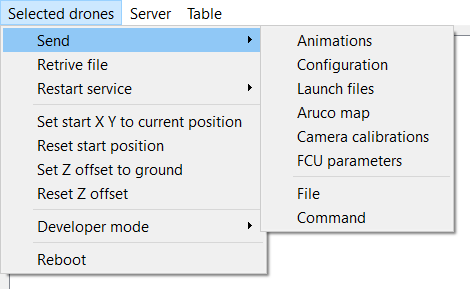
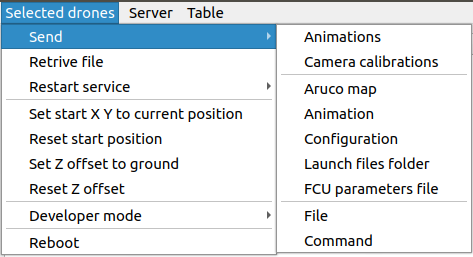
docs: Update server article

diff --git a/docs/ru/server.md b/docs/ru/server.md
@@ -46,7 +46,7 @@
 * `checks`  - состояние самодиагностики коптера. Ячейка в данном столбце проходит проверку, если её значение `OK`. В остальных случаях, если ячейка не пустая, она не проходит проверку.
   * При двойном клике на ячейку при наличии ошибок будет показано диалоговое окно с полной детализацией всех ошибок.
 * `current x y z yaw frame_id` - текущее положение коптера с указанием названия системы координат. Ячейка автоматически проходит проверку если у параметра [check_current_position](#раздел-checks) установлено значение `false`. Иначе, ячейка в данном столбце не проходит проверку, если её значение `NO_POS` или содержит `nan`. В остальных случаях, если ячейка не пустая, она проходит проверку.
-* `start x y z` - стартовое положение коптера для воспроизведения анимации. Ячейка в данном столбце не проходит проверку, если её значение `NO_POS` или разница между текущим и стартовым положением коптера больше значения [start_pos_delta_max](#раздел-checks). В остальных случаях, если ячейка не пустая, она проходит проверку.
+* `start x y z action delay` - стартовое положение коптера для воспроизведения анимации, первое действие при воспроизведении анимации и время через которое выполнится первое действие после старта анимации. Ячейка в данном столбце не проходит проверку, если её значение `NO_POS`, разница между текущим и стартовым положением коптера больше значения [start_pos_delta_max](#раздел-checks) или модуль анимации клиента выдаёт ошибку при обработке анимации и проверке того, что все точки анимации находятся над уровнем земли. В остальных случаях, если ячейка не пустая, она проходит проверку.
 * `dt` - разница между временем на сервере и клиенте в секундах, включая сетевую задержку. Ячейка в данном столбце проходит проверку, если её значение меньше значения [time_delta_max](#раздел-checks), задаваемого в настройках сервера. В остальных случаях, если ячейка не пустая, она не проходит проверку. При слишком больших значениях сигнализирует об отсутствии синхронизации времени между коптером и клиентом.
 
 ### Меню
@@ -59,27 +59,37 @@
 
 * Подраздел `Send`
 
-  * `Animations` - отправка файлов анимации, экспортированных аддоном к Blender, на выбранные коптеры. В диалоговом окне необходимо выбрать *папку*, содержащую файлы анимации. Каждый файл анимации будет отправлен на клиент с именем, соответствующим имени файла без расширения.
+  `<clever-show>` - расположение ПО `clever-show` на клиенте.
+
+  `<clover_dir>` - расположение ROS пакета `clover` на клиенте.
+
+  * `Animations` - отправка файлов анимации, экспортированных аддоном к Blender, на выбранные коптеры. В диалоговом окне необходимо выбрать *папку*, содержащую файлы анимации. Каждый файл анимации будет отправлен на клиент с именем, соответствующим имени файла без расширения. На клиенте файл будет сохранён как `<clever-show>/drone/animation.csv`.
+
+  * `Camera calibrations` - отправка yaml-файлов калибровки камеры для сервиса `clover`.  В диалоговом окне необходимо выбрать *папку*, содержащую файлы конфигурации с расширением `.yaml`. Каждый файл калибровки будет отправлен на клиент с именем (copter ID), соответствующим имени файла без расширения. На клиенте файл будет сохранён как `<clover_dir>/camera_info/calibration.yaml`. **Внимание!** Существующий файл калибровки на коптере будет перезаписан.
+
+  ---
+
+  * `Aruco map` - отправка *единого* файла карты aruco маркеров на все выбранные клиенты. В диалоговом окне необходимо выбрать *один* файл карты в установленном формате. Файл на клиенте будет перезаписан и сохранён как `<clover_dir>/../aruco_pose/map/animation_map.txt`. После получения и записи файла клиент автоматически перезапустит сервис `clover`. Для возобновления работоспособности полётных функций и получения некоторых значений телеметрии *необходимо подождать* некоторое время до полного запуска сервиса.
+
+  * `Animation` - отправка *единого* файла анимации на все выбранные клиенты. В диалоговом окне необходимо выбрать *один* файл анимации. На клиенте файл будет сохранён как `<clever-show>/drone/animation.csv`. Полезная функция для быстрого тестирования нескольких дронов, если использовать в комбинации с `Set start X Y to current position`.
 
   * `Configuration` - отправка *единого* файла конфигурации клиента на все выбранные клиенты. В диалоговом окне необходимо выбрать *один* файл конфигурации в установленном формате. Файл конфигурации может быть неполным, в таком случае будут перезаписаны лишь указанные в файле параметры. **Внимание!** Не рекомендуется использовать данное действие для массовой перезаписи `copter ID`, кроме значения `/hostname`. **Внимание!** НЕ отправляйте на клиенты файл конфигурации сервера.
 
-  * `Launch files` - отправка launch-файлов конфигурации сервиса `clever`. В диалоговом окне необходимо выбрать *папку*, содержащую файлы конфигурации с сширением `.launch`. Все файлы с таким расширением будут отправлены *на каждый* из клиентов. **Внимание!** Существующие файлы конфигурации на коптерах будут перезаписаны, однако файлы, не отправленные сервером, не будут удалены или модифицированы.
+  * `Launch files folder` - отправка launch-файлов конфигурации сервиса `clover`. В диалоговом окне необходимо выбрать *папку*, содержащую файлы конфигурации с расширением `.launch` и `.yaml`. Все файлы с таким расширением будут отправлены *на каждый* из клиентов в директорию `<clover_dir>/launch`. **Внимание!** Существующие файлы конфигурации на коптерах будут перезаписаны, однако файлы, не отправленные сервером, не будут удалены или модифицированы.
 
-  * `Aruco map` - отправка *единого* файла карты aruco маркеров на все выбранные клиенты. В диалоговом окне необходимо выбрать *один* файл карты в установленном формате. Файл на клиенте будет перезаписан. После получения и записи файла клиент автоматически перезапустит сервис `clever`. Для возобновления работоспособности полётных функций и получения некоторых значений телеметрии *необходимо подождать* некоторое время до полного запуска сервиса.
+  * `FCU parameters file` - отправка и запись *единого* файла конфигураций полётного контроллера (FCU) на все выбранные клиенты. В диалоговом окне необходимо выбрать *один* файл параметров в установленном формате. Параметры на полётном контроллере  будут перезаписаны.
 
-  * `Camera calibrations` - отправка yaml-файлов калибровки камеры для сервиса `clever`.  В диалоговом окне необходимо выбрать *папку*, содержащую файлы конфигурации с расширением `.yaml`. Каждый файл калибровки будет отправлен на клиент с именем (copter ID), соответствующим имени файла без расширения. **Внимание!** Существующий файл калибровки на коптере будет перезаписан.
-
-  * `FCU parameters` - отправка и запись *единого* файла конфигураций полётного контроллера (FCU) на все выбранные клиенты. В диалоговом окне необходимо выбрать *один* файл параметров в установленном формате. Параметры на полётном контроллере  будут перезаписаны.
+  ---
 
   * `File` - отправка *одного* любого файла на все выбранные клиенты. В диалоговом окне необходимо выбрать *один* файл. Далее, необходимо указать путь, по которому данный файл будет записан на клиенты (не включая имя файла).
 
   * `Command` - отправка и выполнение любой команды терминала на все выбранные клиенты. В диалоговом окне необходимо ввести требуемую команду. Команды *могут* использовать `sudo`-права.
 
-  ------
+---
 
 * `Retrive file` - позволяет скачать любой файл с клиентов в выбранную директорию в файловой системе сервера. Если при скачивании был выбран более чем один клиент, то к имени файла от каждого клиента будет добавлен его ID. В диалоговом окне сначала введите путь к требуемому файлу на клиенте.  Далее, в диалоговом окне необходимо указать путь, по которому данный файл будет записан на сервер.
 
-  ------
+---
 
 * Подраздел `Restart Service`
 
@@ -89,7 +99,7 @@
   * `clever` - перезапускает сервис  `clever` на выбранных клиентах. Для возобновления работоспособности полётных функций и получения некоторых значений телеметрии *необходимо подождать* некоторое время до полного запуска сервиса.
   * `clever-show` - перезапускает сервис шоу коптеров `clever-show` на выбранных клиентах. Во время перезапуска клиенты будут отключены.
 
-  ------
+---
 
 * `Set start X Y to current position` - устанавливает точку старта анимации у выбранных клиентов в значения текущей позиции по X Y.
 
@@ -97,9 +107,15 @@
 
 * `Set Z offfset to ground` - устанавливает собственный отступ по Z каждого из выбранных клиентов в значение, равное текущему положению по координате Z. Можно применять для выравнимания общей высоты полёта коптеров.
 * `Reset Z offfset` - устанавливает собственный отступ по Z каждого из выбранных клиентов в значение `0`.
+
+---
+
 * `Developer mode`: **Внимание!** Используйте данные действия с большой осторожностью.
-  
+
   * `Update clever-show git` - обновляет папку репозитория  `clever-show` на выбранных клиентах. Файлы конфигурации клиента *не будут* перезаписаны. **Внимание!**  Для того, чтобы изменения вступили в силу, *необходимо* перезапустить сервис `clever-show`.
+
+---
+
 * `Reboot` - полностью перезагружает полётный контроллер и компьютер на выбранных коптерах. Во время перезапуска клиенты будут отключены.
 
 #### Раздел Server
@@ -112,11 +128,13 @@
   * `Play music` - воспроизводит загруженную музыку.
   * `Stop music` - останавливает воспроизведение проигрываемой музыки.
 
-  ------
+---
 
 * `Edit server config`  - открывает [встроенный редактор конфигурационных файлов](#config-editor) с текущей конфигурацией сервера для редактирования. Доступен чекбокс `Restart` - в случае, если он нажат, то при сохранении конфигурации сервер будет перезапущен. **Внимание!** Изменённые параметры конфигурации будут применены к серверу только после его перезапуска (ручного или автоматического).
 
 * `Edit any config` - открывает [встроенный редактор конфигурационных файлов](#config-editor) и позволяет выбрать для редактирования в файловой системе любой файл конфигурации c расширением `.ini` или же открыть файл спецификации конфигурации для создания файла конфигурации на его основе.
+
+---
 
 * `Restart server` - полностью перезапускает сервер. **Внимание!** После перезапуска сервер более не будет соединён с консолью, из которой был запущен, если сервер изначально был запущен из консоли.
 
@@ -127,7 +145,13 @@
 * `Toggle select` (`Ctrl+A`) - выделят все коптеры\снимает выделение со всех коптеров. Если в таблице выбраны не все коптеры, то *выделяет все* коптеры. Иначе (если были выделены все коптеры) *снимает выделение* со всех коптеров.
 * `Select all` - выделят все коптеры в таблице.
 * `Deselect all` - снимает выделение со всех коптеров в таблице.
+
+---
+
 * `Remove selected drones` - удаляет выбранные коптеры из таблицы. **Внимание!** В случае, если клиент был подключен, будет произведено отключение. В случае если удалённый таким образом клиент исправно функционировал, он переподключится в кратчайшие сроки.
+
+---
+
 * `Configure columns` - открывает [встроенный конфигуратор](#column-preset-editor) наборов настроек столбцов таблицы.
 
 ### Боковая панель команд
@@ -200,18 +224,6 @@
 * `port` - TCP порт, на который будут приниматься входящие соединения от клиентов. При использовании broadcast данный порт будет сконфигурирован у клиента автоматически. *Рекомендуется изменить значение по умолчанию в целях безопасности* (любое пятизначное и более число, если другое ПО не использует выбранный порт).
 * `buffer_size` - размер буфера при приёме и передаче данных. *Не рекомендуется изменять. Рекомендуется использовать единое значение у сервера и клиентов.*
 
-#### Раздел TABLE
-
-* `remove_disconnected` - Определяет поведение при разрыве связи с клиентом. При значении `True` вся информация о клиенте *будет удалена* как из внутренней памяти, так и *из таблицы*. *Это может привести к 'скачкам' таблицы при отключении клиентов.* При значении `False` отключённые клиенты *не будут* удалены из таблицы, но будут отображены с подсвечиванием ячейки в столбце `copter ID` красным цветом. Все данные будут сохранены. При переподключении клиента, он будет ассоциирован с той же строкой таблицы, а ячейка со значением `copter ID` вновь станет зелёного цвета.
-
-##### Подраздел PRESETS
-
-Не рекомендуется изменять данный раздел вручную - для редактирования данных параметров можно взаимодействовать с таблицей или используя встроенный диалог конфигурации таблицы.
-
-* `current` - Название текущего выбранного набора настроек столбцов таблицы
-* `<название_набора>`
-  * `<название_столбца>` - значение представляет собой список (через ",") из булевого значения (отображается ли столбец в таблице) и целого числа больше 0 (ширину столбца в пикселах)
-
 #### Раздел CHECKS
 
 В этом разделе задаются параметры проверок коптера, которые регулируются на стороне сервера. Доступны следующие параметры:
@@ -238,6 +250,18 @@
 * `use` - определяет, будет ли использоваться синхронизация времени с помощью NTP. (при значении `False` будет использовано локальное время ОС (синхронизируется автоматически при использовании chrony). *Рекомендуется использование chrony, а не NTP*
 * `host` - имя хоста или IP адрес NTP сервера (локального или удаленного)
 * `port` - порт, используемый NTP сервером
+
+#### Раздел TABLE
+
+* `remove_disconnected` - Определяет поведение при разрыве связи с клиентом. При значении `True` вся информация о клиенте *будет удалена* как из внутренней памяти, так и *из таблицы*. *Это может привести к 'скачкам' таблицы при отключении клиентов.* При значении `False` отключённые клиенты *не будут* удалены из таблицы, но будут отображены с подсвечиванием ячейки в столбце `copter ID` красным цветом. Все данные будут сохранены. При переподключении клиента, он будет ассоциирован с той же строкой таблицы, а ячейка со значением `copter ID` вновь станет зелёного цвета.
+
+##### Подраздел PRESETS
+
+Не рекомендуется изменять данный раздел вручную - для редактирования данных параметров можно взаимодействовать с таблицей или используя встроенный диалог конфигурации таблицы.
+
+* `current` - Название текущего выбранного набора настроек столбцов таблицы
+* `<название_набора>`
+  * `<название_столбца>` - значение представляет собой список (через ",") из булевого значения (отображается ли столбец в таблице) и целого числа больше 0 (ширину столбца в пикселах)
 
 ## Дополнительные операции и окна
 
